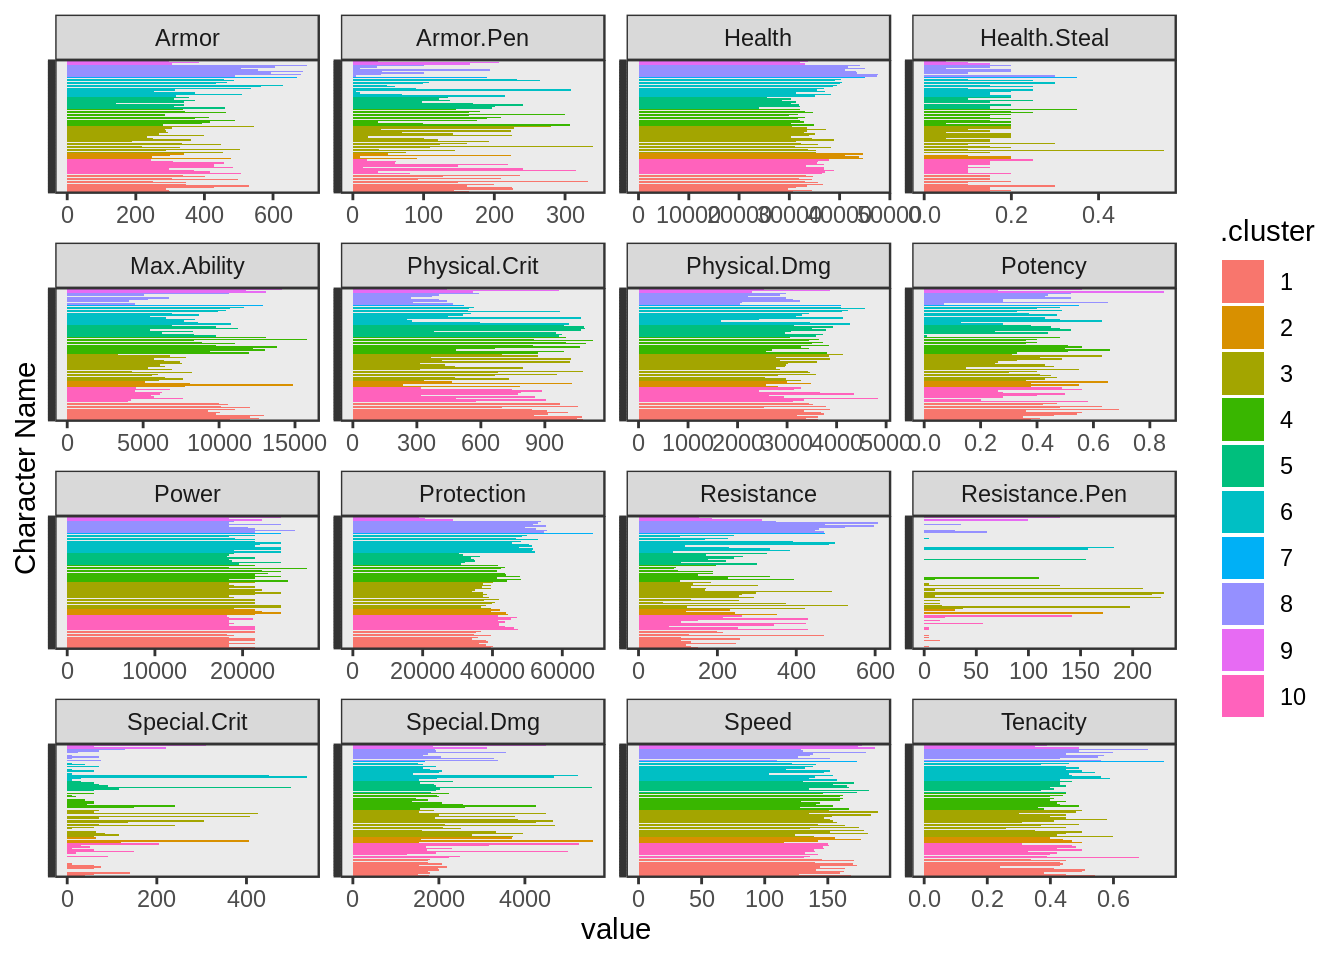
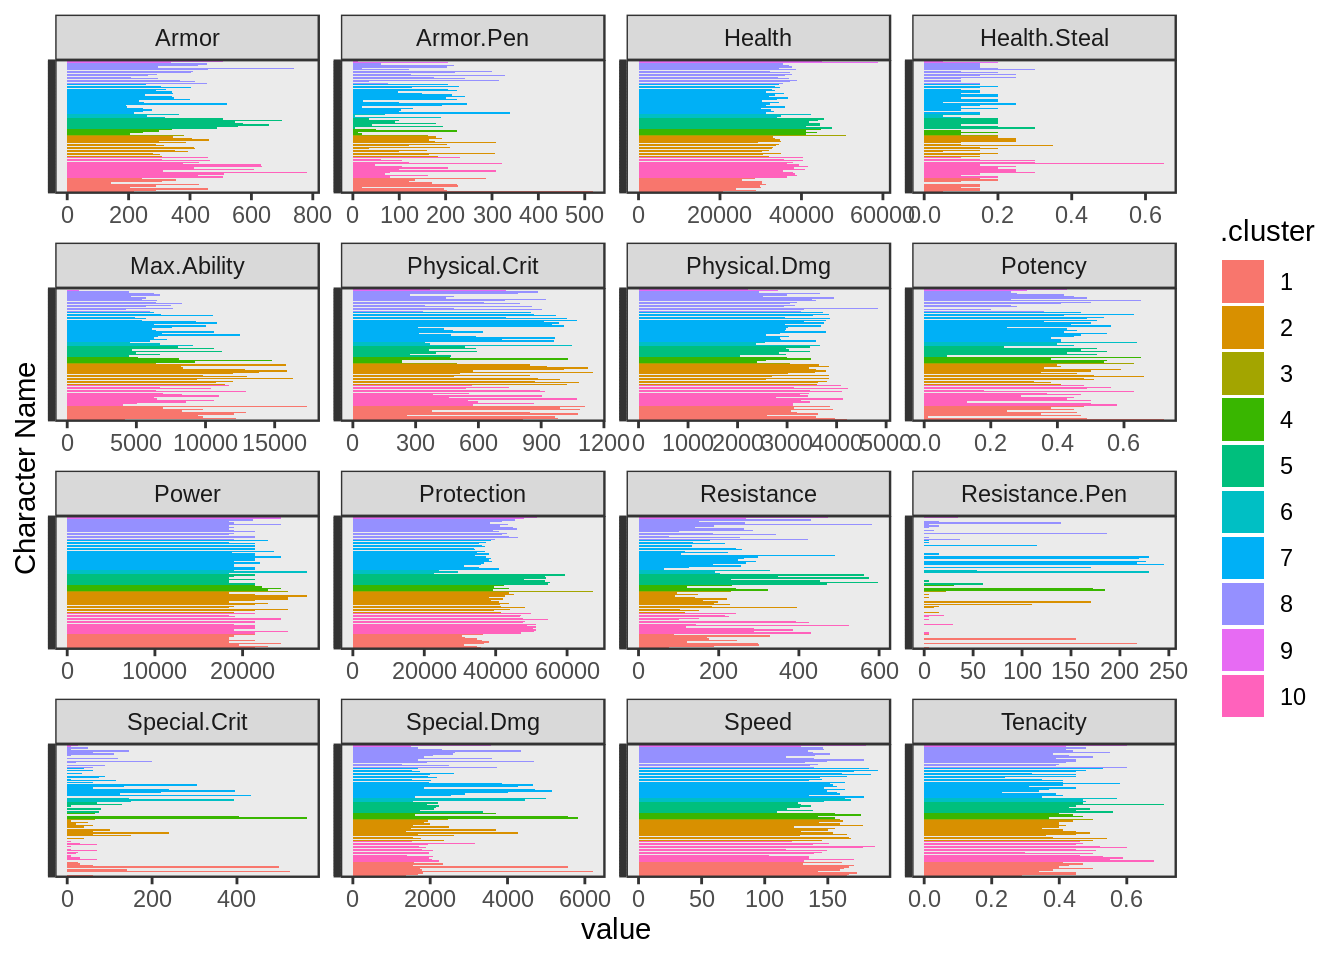
kmeans post

diff --git a/content/post/2019-07-07-kmeans.html b/content/post/2019-07-07-kmeans.html
@@ -1,13 +1,14 @@
 ---
-title: "Experimentation with k-means clustering"
+title: "Use the k-means clustering, Luke"
 date: "2019-07-07"
 author: "Jamie Lendrum"
-tags: [r, tidyverse, unsupervised learning, rvest, ggally, star wars]
+tags: [r, tidyverse, broom, kmeans, clustering, star wars]
 ---
 
 
 
-<p>.</p>
+<p>In my last post I scraped some character statistics from the mobile game Star Wars: Galaxy of Heroes. In this post, I’ll be aiming to try out k-means clustering in order to see if it comes out with an intuitive result, and to learn how to integrate this kind of analysis into a tidy workflow using <code>broom</code>.</p>
+<p>First I’ll load the required packages and set some plot preferences.</p>
 <pre class="r"><code>library(tidyverse)</code></pre>
 <pre><code>## ── Attaching packages ─────────────────────────────────────────────────────────────────────────── tidyverse 1.2.1 ──</code></pre>
 <pre><code>## ✔ ggplot2 3.2.0     ✔ purrr   0.3.2
@@ -18,8 +19,8 @@ tags: [r, tidyverse, unsupervised learning, rvest, ggally, star wars]
 ## ✖ dplyr::filter() masks stats::filter()
 ## ✖ dplyr::lag()    masks stats::lag()</code></pre>
 <pre class="r"><code>library(broom)
-library(gganimate)
 theme_set(theme_bw())</code></pre>
+<p>Here is the data I had previously scraped. It contains 176 Star Wars characters, each with 16 performance attributes.</p>
 <pre class="r"><code>swgoh_stats &lt;- read_csv(&quot;content/post/data/unsupervised-learning/swgoh_stats.csv&quot;)</code></pre>
 <pre><code>## Parsed with column specification:
 ## cols(
@@ -61,6 +62,9 @@ theme_set(theme_bw())</code></pre>
 ## $ Resistance       &lt;dbl&gt; 116, 423, 110, 152, 471, 124, 104, 76, 431, 253…
 ## $ Tenacity         &lt;dbl&gt; 0.50, 0.60, 0.33, 0.54, 0.56, 0.42, 0.38, 0.29,…
 ## $ `Health Steal`   &lt;dbl&gt; 0.15, 0.15, 0.35, 0.15, 0.30, 0.55, 0.20, 0.05,…</code></pre>
+<p>Some things to note straight off the bat. This algorithm can only deal with numeric data as it calculates distances from centroids. We also have to provide it with a number of clusters (centers) which requires either some a priori knowledge of the data, or some experimentation (or both).</p>
+<p>There is also a stochastic element to the algorithm as the first step assigns each point to a random cluster. The algorithm can be repeated several times (with the <code>nstart</code> parameter) and the best performing run used. This means that if reproducibility is needed, a random number seed must be set. I’ll be setting a new seed every time I generate some analysis with specific attributions I’d like to have reproduced.</p>
+<p>First, let’s have a look at a single <code>kmeans()</code> model using an arbitrary 3 clusters:</p>
 <pre class="r"><code>set.seed(1)
 test_km &lt;- kmeans(swgoh_stats[,-1], centers = 3, nstart = 50)
 test_km</code></pre>
@@ -97,7 +101,8 @@ test_km</code></pre>
 ## [1] &quot;cluster&quot;      &quot;centers&quot;      &quot;totss&quot;        &quot;withinss&quot;    
 ## [5] &quot;tot.withinss&quot; &quot;betweenss&quot;    &quot;size&quot;         &quot;iter&quot;        
 ## [9] &quot;ifault&quot;</code></pre>
-<p>Looking at the summary</p>
+<p>Printing the model object gives us some useful information, including cluster sizes, cluster means (centroids), a vector of cluster attributions for each character, and some information about the performance of the clustering. For k-means, the objective is to maximise the between-cluster sum of squares (variance) and minimise the within-cluster sum of squares, i.e. have tight clusters that are well separated. The total sum of squares is the total of these two figures, and so ideally we’d like to have as much of the variance as possible coming from the between-cluster variance instead of the within-cluster variance. Hence, 54.9% is a measure of cluster performance. If every point was its own cluster, it would be 100%.</p>
+<p>Looking at the summary, we get some slightly different information, which indicates that integrating this model into a tidy workflow may be tricky as it is essentially a list of different sized elements.</p>
 <pre class="r"><code>summary(test_km)</code></pre>
 <pre><code>##              Length Class  Mode   
 ## cluster      176    -none- numeric
@@ -109,11 +114,14 @@ test_km</code></pre>
 ## size           3    -none- numeric
 ## iter           1    -none- numeric
 ## ifault         1    -none- numeric</code></pre>
+<p>This is where the <code>broom</code> package comes in, which is installed with the <code>tidyverse</code>. This package is used for turning messy model objects like this into tidy tibbles and has three main functions:</p>
+<p>The <code>glance()</code> function gives a single row of top-level metrics. This is useful for extracting performance measures.</p>
 <pre class="r"><code>glance(test_km)</code></pre>
 <pre><code>## # A tibble: 1 x 4
 ##          totss tot.withinss   betweenss  iter
 ##          &lt;dbl&gt;        &lt;dbl&gt;       &lt;dbl&gt; &lt;int&gt;
 ## 1 17741410664.  7998675634. 9742735030.     3</code></pre>
+<p>The <code>tidy()</code> function gives a row for each cluster. I can’t imagine I’d use this one too often for k-means.</p>
 <pre class="r"><code>tidy(test_km)</code></pre>
 <pre><code>## # A tibble: 3 x 19
 ##       x1    x2     x3    x4    x5    x6    x7    x8    x9   x10   x11
@@ -123,6 +131,7 @@ test_km</code></pre>
 ## 3 21369.  142. 42205. 7060. 3201.  566. 2194   45.8  106.  11.3 0.410
 ## # … with 8 more variables: x12 &lt;dbl&gt;, x13 &lt;dbl&gt;, x14 &lt;dbl&gt;, x15 &lt;dbl&gt;,
 ## #   x16 &lt;dbl&gt;, size &lt;int&gt;, withinss &lt;dbl&gt;, cluster &lt;fct&gt;</code></pre>
+<p>The <code>augment()</code> function gives a row for each observation. You not only have to provide the model object, but also the original data (exactly as it was originally used) and it augments it with cluster attribution. This is where the main results lie.</p>
 <pre class="r"><code>augment(test_km, swgoh_stats[,-1])</code></pre>
 <pre><code>## # A tibble: 176 x 17
 ##    Power Speed Health Max.Ability Physical.Dmg Physical.Crit Special.Dmg
@@ -141,6 +150,13 @@ test_km</code></pre>
 ## #   Armor.Pen &lt;dbl&gt;, Resistance.Pen &lt;dbl&gt;, Potency &lt;dbl&gt;,
 ## #   Protection &lt;dbl&gt;, Armor &lt;dbl&gt;, Resistance &lt;dbl&gt;, Tenacity &lt;dbl&gt;,
 ## #   Health.Steal &lt;dbl&gt;, .cluster &lt;fct&gt;</code></pre>
+<p>The question then is how to implement these into a tidy workflow, especially when you may want to experiment with many different models. After reading about it online and some experimentation, I think I have it figured out. The trick seems to involve 3 steps:</p>
+<ol style="list-style-type: decimal">
+<li>Create a tibble with a list column of models;</li>
+<li>Use one of the <code>broom</code> functions above to create another list column, dependent on the question being asked;</li>
+<li>Unnest the <code>broom</code>-derived list column to surface the appropriate model parameters in the tibble.</li>
+</ol>
+<p>As an example, the first thing to do here is to find an appropriate number of clusters to use. Therefore I create a tibble with a row for a number of clusters from 1 to 20, and map each of these numbers to the kmeans algorithm to create a column of models. Since I’m interested in how model performance changes with the number of clusters, I map each model to the <code>glance()</code> function and unnest it. I can then generate a scree plot to try to find an appropriate elbow in the curve. Instead of using the total within-cluster sum of squares, I normalise it as it I can interpret it more usefully.</p>
 <pre class="r"><code>tibble(clusters = 1:20) %&gt;% 
   mutate(mod = map(clusters, ~ kmeans(swgoh_stats[,-1], centers = .x, nstart = 50))) %&gt;%
   mutate(glanced = map(mod, glance)) %&gt;%
@@ -148,7 +164,10 @@ test_km</code></pre>
   ggplot(aes(x=clusters, y = tot.withinss/totss)) +
   geom_line()</code></pre>
 <p><img src="/post/2019-07-07-kmeans_files/figure-html/unnamed-chunk-8-1.png" width="672" /></p>
-<pre class="r"><code>kmeans(swgoh_stats[,-1], centers = 10, nstart = 50) %&gt;%
+<p>The scree plot says that when there is once cluster performance is at its worst possible, however it’s difficult to choose a number of clusters as there’s no obvious knee (apart from the one at clusters = 2, which has performance of around 43%). I’ll initially go with 10 as that seems to give around 80% performance.</p>
+<p>Now I’ve chosen a number of clusters, I’ll look at how characters are clustered for each attribute. This time I use the <code>augment()</code> function to get cluster attributions. Due to the size of the data, I also only use a random 50% of the data from each cluster:</p>
+<pre class="r"><code>set.seed(123)
+kmeans(swgoh_stats[,-1], centers = 10, nstart = 50) %&gt;%
   augment(swgoh_stats[,-1]) %&gt;%
   bind_cols(swgoh_stats[,1]) %&gt;%
   mutate(`Character Name` = fct_reorder(`Character Name`, paste0(.cluster))) %&gt;%
@@ -162,6 +181,8 @@ test_km</code></pre>
   facet_wrap(~attribute, drop = TRUE, scales = &quot;free&quot;) +
   theme(axis.text.y = element_blank())</code></pre>
 <p><img src="/post/2019-07-07-kmeans_files/figure-html/unnamed-chunk-9-1.png" width="672" /></p>
+<p>In this plot, I’m surprised to see that it’s difficult to distinguish between clusters, except for health and protection. Since these have by far the biggest values and I don’t want to cluster by these alone, it’s clear I have to scale the values. One thing I learned is that the <code>scale()</code> function is used for scaling and centering, and it does both by default. It also returns a matrix, so I have to turn it back into a tibble.</p>
+<p>Let’s redo the scree plot.</p>
 <pre class="r"><code>swgoh_scaled &lt;- scale(swgoh_stats[,-1]) %&gt;% as_tibble()
 
 tibble(clusters = 1:20) %&gt;% 
@@ -171,9 +192,12 @@ tibble(clusters = 1:20) %&gt;%
   ggplot(aes(x=clusters, y = tot.withinss/totss)) +
   geom_line() </code></pre>
 <p><img src="/post/2019-07-07-kmeans_files/figure-html/unnamed-chunk-10-1.png" width="672" /></p>
-<pre class="r"><code>scaled_clustering &lt;- kmeans(swgoh_scaled, centers = 10, nstart = 50) %&gt;%
+<p>The scree plot doesn’t look too different, so I’ll stick with 10 clusters for now.</p>
+<pre class="r"><code>set.seed(124)
+scaled_clustering &lt;- kmeans(swgoh_scaled, centers = 10, nstart = 50) %&gt;%
   augment(swgoh_scaled) %&gt;%
   bind_cols(swgoh_stats[,1]) </code></pre>
+<p>Let’s see if the clustering has improved across attributes:</p>
 <pre class="r"><code>scaled_clustering %&gt;%
   mutate(`Character Name` = fct_reorder(`Character Name`, paste0(.cluster))) %&gt;%
   group_by(.cluster) %&gt;% 
@@ -186,12 +210,76 @@ tibble(clusters = 1:20) %&gt;%
   facet_wrap(~attribute, drop=TRUE, scales = &quot;free&quot;) +
   theme(axis.text.y = element_blank())</code></pre>
 <p><img src="/post/2019-07-07-kmeans_files/figure-html/unnamed-chunk-12-1.png" width="672" /></p>
+<p>This seems much better. Next, I’d like to see which characters are being clustered together to see if I can spot any patterns. As there’s no wordcloud geom for <code>ggplot2</code> I just create a bit of a simple one, using <code>ggrepel</code> to avoid overlapping character names as much as possible.</p>
 <pre class="r"><code>scaled_clustering %&gt;% 
   select(`Character Name`, .cluster) %&gt;%
   mutate(x = runif(n(), 0, 10),
          y = runif(n(), 0, 10)) %&gt;%
   ggplot(aes(x=x,y=y, label=`Character Name`)) +
   ggrepel::geom_text_repel(size = 3) +
-  theme_minimal() +
+  theme(axis.text = element_blank(), 
+        axis.ticks = element_blank(),
+        axis.title = element_blank()) +
   facet_wrap(~.cluster)</code></pre>
-<p><img src="/post/2019-07-07-kmeans_files/figure-html/unnamed-chunk-13-1.png" width="672" /></p>
+<p><img src="/post/2019-07-07-kmeans_files/figure-html/unnamed-chunk-13-1.png" width="960" /></p>
+<p>From what I know about the game, some interesting things pop out to me straightaway:</p>
+<ul>
+<li>Cluster 2 seems to contain support characters - for example Jawa Engineer speeds up droids, and Hermit Yoda provides buffs to Jedi characters.</li>
+<li>Cluster 6 contains only two characters and both of these were introduced very recently. Perhaps the developers are trying characters with a different kind of balance;</li>
+<li>Cluster 7 seems to have captured many characters known as “tanks”. These have high health/protection and are designed to soak up damage;</li>
+<li>Cluster 8 contains some notable attackers with high damage output.</li>
+</ul>
+<p>Spotting these patterns is quite encouraging! I wasn’t originally intending to do this, but I am fascinated to find out how these clusters map to character roles. There’s no way I can find of downloading this data, so I manually created it from data on the website:</p>
+<pre class="r"><code>swgoh_roles &lt;- read_csv(&quot;content/post/data/unsupervised-learning/swgoh_roles.csv&quot;) %&gt;%
+  mutate(role = case_when(!is.na(attacker) ~ &quot;Attacker&quot;,
+                          !is.na(support) ~ &quot;Support&quot;,
+                          !is.na(tank) ~ &quot;Tank&quot;,
+                          !is.na(healer) ~ &quot;Healer&quot;)) %&gt;% 
+  select(`Character Name`, role)</code></pre>
+<pre><code>## Parsed with column specification:
+## cols(
+##   `Character Name` = col_character(),
+##   attacker = col_double(),
+##   healer = col_double(),
+##   support = col_double(),
+##   tank = col_double()
+## )</code></pre>
+<pre class="r"><code>glimpse(swgoh_roles)</code></pre>
+<pre><code>## Observations: 176
+## Variables: 2
+## $ `Character Name` &lt;chr&gt; &quot;Aayla Secura&quot;, &quot;Admiral Ackbar&quot;, &quot;Ahsoka Tano&quot;…
+## $ role             &lt;chr&gt; &quot;Support&quot;, &quot;Support&quot;, &quot;Attacker&quot;, &quot;Attacker&quot;, &quot;…</code></pre>
+<p>Let’s recreate the ten ‘wordclouds’ to see how the characters are being clustered by role:</p>
+<pre class="r"><code>scaled_clustering %&gt;%
+  left_join(swgoh_roles) %&gt;%
+  select(`Character Name`, .cluster, role) %&gt;%
+  mutate(x = runif(n(), 0, 10),
+         y = runif(n(), 0, 10)) %&gt;%
+  ggplot(aes(x=x,y=y, label=`Character Name`)) +
+  ggrepel::geom_text_repel(aes(col = role), size = 3) +
+  theme(axis.text = element_blank(), 
+        axis.ticks = element_blank(),
+        axis.title = element_blank()) +
+  facet_wrap(~.cluster)</code></pre>
+<pre><code>## Joining, by = &quot;Character Name&quot;</code></pre>
+<p><img src="/post/2019-07-07-kmeans_files/figure-html/unnamed-chunk-15-1.png" width="960" /></p>
+<p>It does seem that my observations were correct, and tanks are indeed focussed in cluster 7. Cluster 8 also seems to exclusively contain attackers, with the role also being prevalent in clusters 4 and 9. Clusters 2 and 10 seem to be focussed on support roles.</p>
+<p>Given there are 4 roles, I’m curious to see how well k-means is able to distinguish between them if we assume 4 cluster:</p>
+<pre class="r"><code>set.seed(125)
+kmeans(swgoh_scaled, centers = 4, nstart = 50) %&gt;%
+  augment(swgoh_scaled) %&gt;%
+  bind_cols(swgoh_stats[,1]) %&gt;%
+  left_join(swgoh_roles) %&gt;%
+  select(`Character Name`, .cluster, role) %&gt;%
+  mutate(x = runif(n(), 0, 10),
+         y = runif(n(), 0, 10)) %&gt;%
+  ggplot(aes(x=x,y=y, label=`Character Name`)) +
+  ggrepel::geom_text_repel(aes(col = role), size = 3) +
+  theme(axis.text = element_blank(), 
+        axis.ticks = element_blank(),
+        axis.title = element_blank()) +
+  facet_wrap(~.cluster)</code></pre>
+<pre><code>## Joining, by = &quot;Character Name&quot;</code></pre>
+<p><img src="/post/2019-07-07-kmeans_files/figure-html/unnamed-chunk-16-1.png" width="672" /></p>
+<p>Interesting! Three of the clusters seem to be capuring support, attacker, and tank characters pretty well, however the fourth cluster seems to be a bit of a mess…this probably because healing abilities are given to a range of characters.</p>
+<p>This seems to be a pretty good algorithm, I’m interested to see how other compare. Next up, hierarchical clustering!</p>
